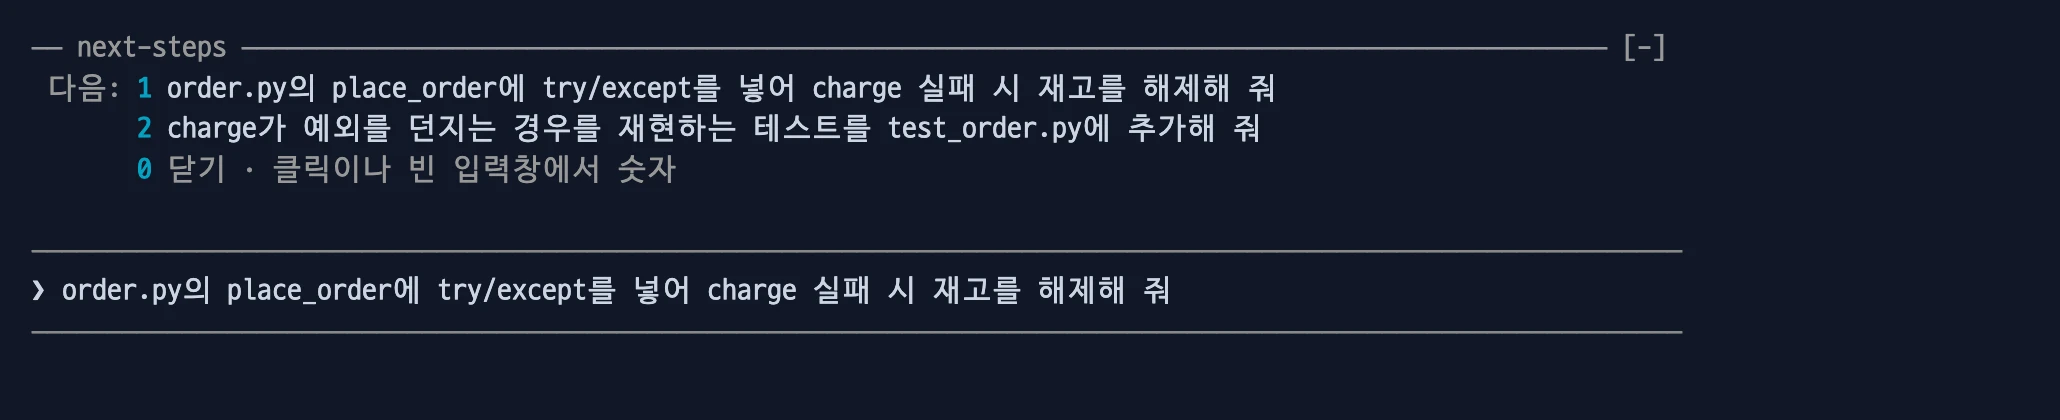
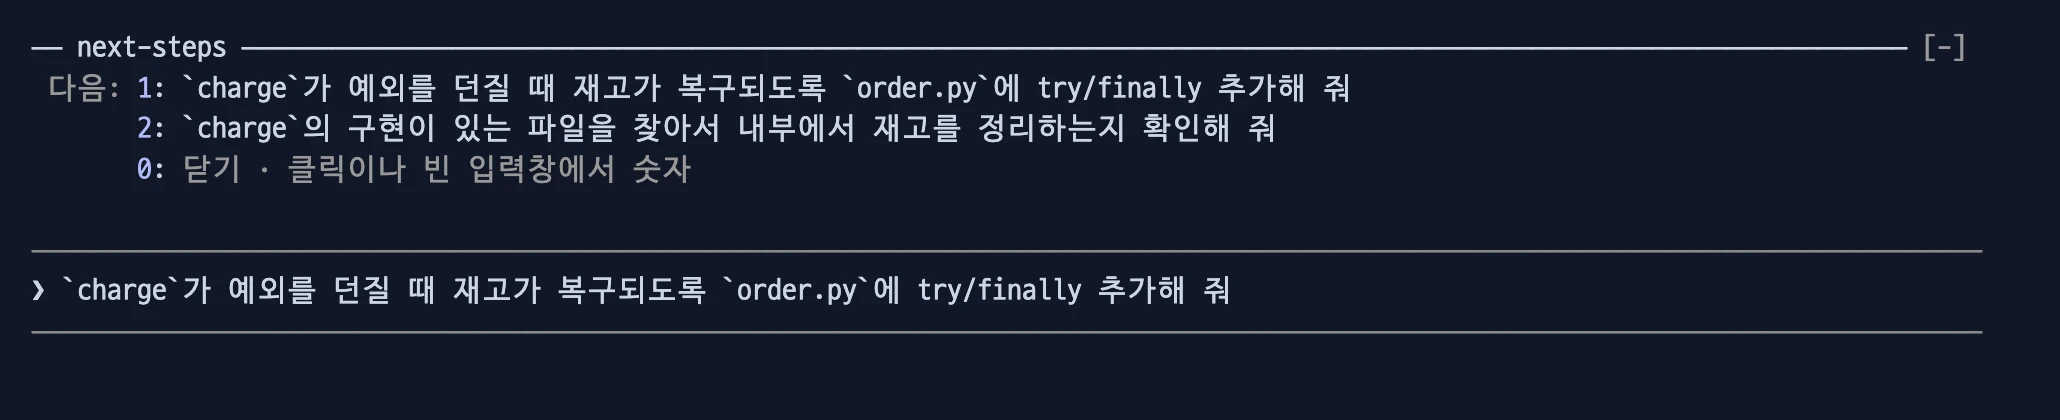
next-steps 0.3.4: pass the rows the list reserved to inner mods as nextStepsRows, so team-board no longer subtracts them again and shrinks the team window; reshoot the README images with the 1: hotkey numbers
Claude-Session: https://claude.ai/code/session_01KG1wdm83H9b3ZYoxyhJH2T

diff --git a/next-steps/tests/next-steps.test.ts b/next-steps/tests/next-steps.test.ts
@@ -186,13 +186,14 @@ describe('next-steps', () => {
   test('제안 띠 줄 수를 먼저 떼고 남은 줄만 다른 mod 띠에 넘긴다. 제안이 없거나 작업 중이면 그대로 넘긴다', async ($, on) => {
     mock.store(on)
     const seen: number[] = []
+    const own: (number | undefined)[] = []
     on('session.start', ($, e) => ({ cwd: e.cwd }))
     on('command.register', ($, e: any) => ({ value: { command: e.name } }))
     on('agent.list', () => ({ value: [] }))
     on('session.messages', () => ({ value: [] }))
     on('model.complete', () => ({ value: { isAnswered: true, text: '테스트를 다시 돌려 줘\nPR 초안을 만들어 줘', usage: USAGE } }))
     on('turn.complete', () => ({ text: '' }))
-    on('ui.render', { component: 'AbovePrompt' }, ($, e: any) => { seen.push(e.props.maxRows); return $.ui.resolve(e).Text({ children: 'OTHER-MOD-BAND' }) })
+    on('ui.render', { component: 'AbovePrompt' }, ($, e: any) => { seen.push(e.props.maxRows); own.push(e.props.nextStepsRows); return $.ui.resolve(e).Text({ children: 'OTHER-MOD-BAND' }) })
     const rowsAt = async (maxRows: number, props: any = {}) => {
       const band = await $.ui.mount({ ...BAND, props: { ...BAND.props, maxRows, ...props } })
       await band.unmount()
@@ -201,10 +202,13 @@ describe('next-steps', () => {
 
     await $.session.start({ surface: 'terminal', isInteractive: true, cwd: '/r' } as any)
     expect(await rowsAt(10)).toBe(10) // 제안이 없으면 다 넘긴다
+    expect(own.at(-1)).toBeUndefined()
 
     await $.turn.complete({ reason: 'answer', answer: LONG_ANSWER, durationMs: 1, isAborted: false, turnId: 't1' } as any)
     await settle()
     expect(await rowsAt(10)).toBe(6) // 여러 줄: 가로줄 + 제안 2 + 닫기 줄 = 4
+    // 뗀 줄 수를 안쪽 mod 에 알린다. team-board 가 이 줄을 다시 빼지 않는다 (T55)
+    expect(own.at(-1)).toBe(4)
     expect(await rowsAt(4)).toBe(2) // 한 줄 모양: 가로줄 + 한 줄 = 2
     expect(await rowsAt(2)).toBe(1) // 3줄도 안 되면 가로줄을 빼 한 줄만 쓴다. 다른 mod 와 한 줄씩 나눈다
     expect(await rowsAt(1)).toBe(0)
@@ -214,6 +218,7 @@ describe('next-steps', () => {
     expect(await band.find({ type: 'Text', text: /테스트를 다시 돌려 줘/ })).toBeUndefined()
     await band.unmount()
     expect(await rowsAt(10, { isWorking: true })).toBe(10)
+    expect(own.at(-1)).toBeUndefined()
     expect(await rowsAt(10, { hasSurvey: true })).toBe(10)
   })
 

diff --git a/next-steps/hooks/register.tsx b/next-steps/hooks/register.tsx
@@ -87,7 +87,8 @@ export const register: Register = on => {
     // 3줄도 안 되면 가로줄을 빼 한 줄만 쓴다. 2줄 자리를 다른 mod 와 한 줄씩 나눈다
     const ruled = e.props.maxRows >= 3
     const own = (ruled ? 1 : 0) + (oneRow ? 1 : s.items.length + 1)
-    const rest = await next({ ...e, props: { ...e.props, maxRows: Math.max(0, e.props.maxRows - own) } })
+    // 뗀 줄 수도 알린다. 안쪽 team-board 가 이 띠 자리를 다시 빼 팀 창을 괜히 줄이지 않는다 (T55)
+    const rest = await next({ ...e, props: { ...e.props, maxRows: Math.max(0, e.props.maxRows - own), nextStepsRows: own } as typeof e.props })
     // 같은 숫자는 나중에 그린 이 띠가 이긴다. 위 띠(엔진 Heads up 등)에 숫자 버튼이 있으면 그 숫자를 빼앗지 않도록 클릭만 받는다
     const keys = !hasDigitKey(rest)
 
